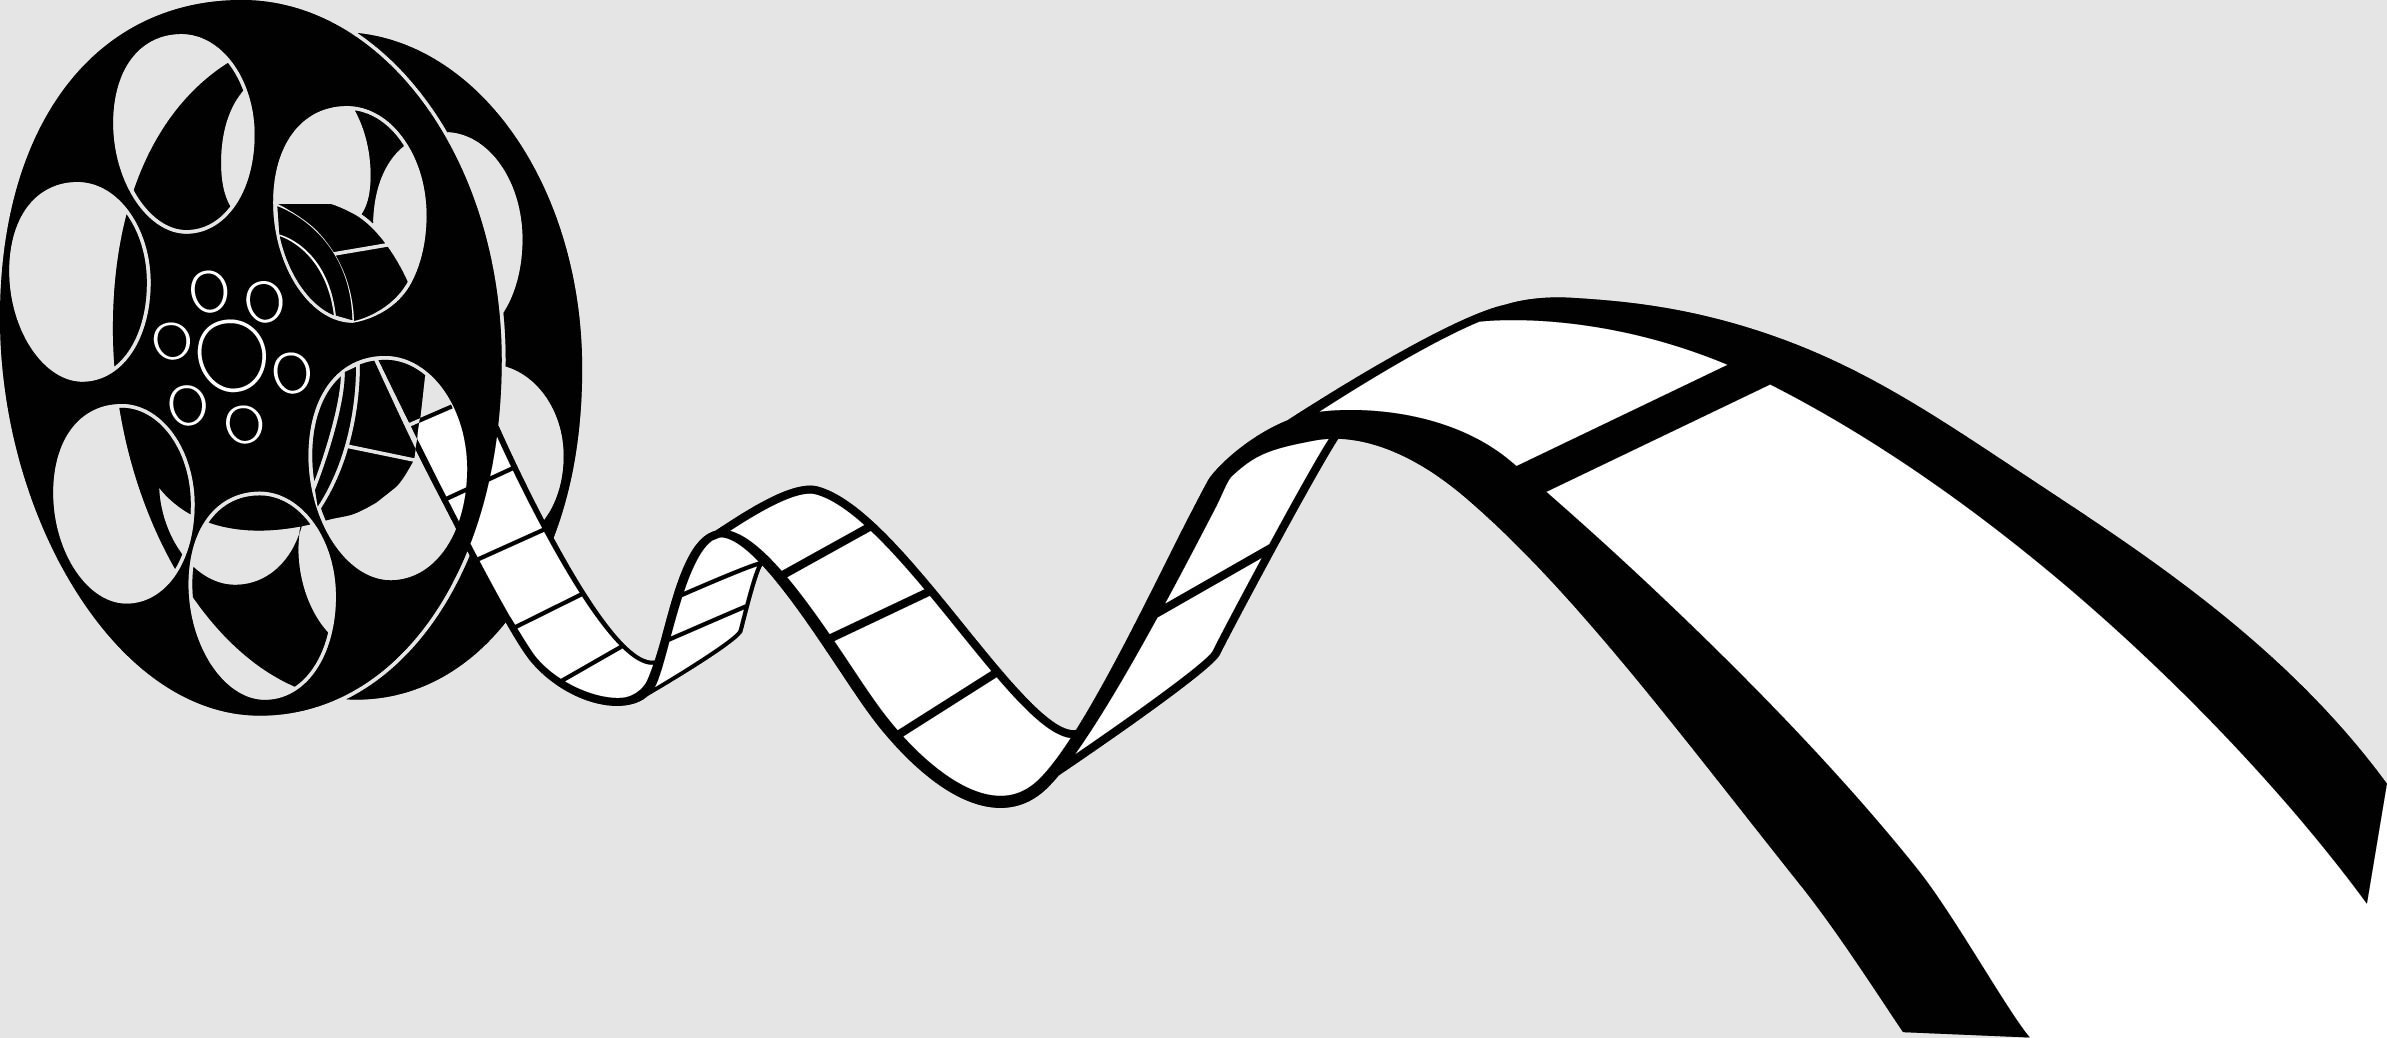
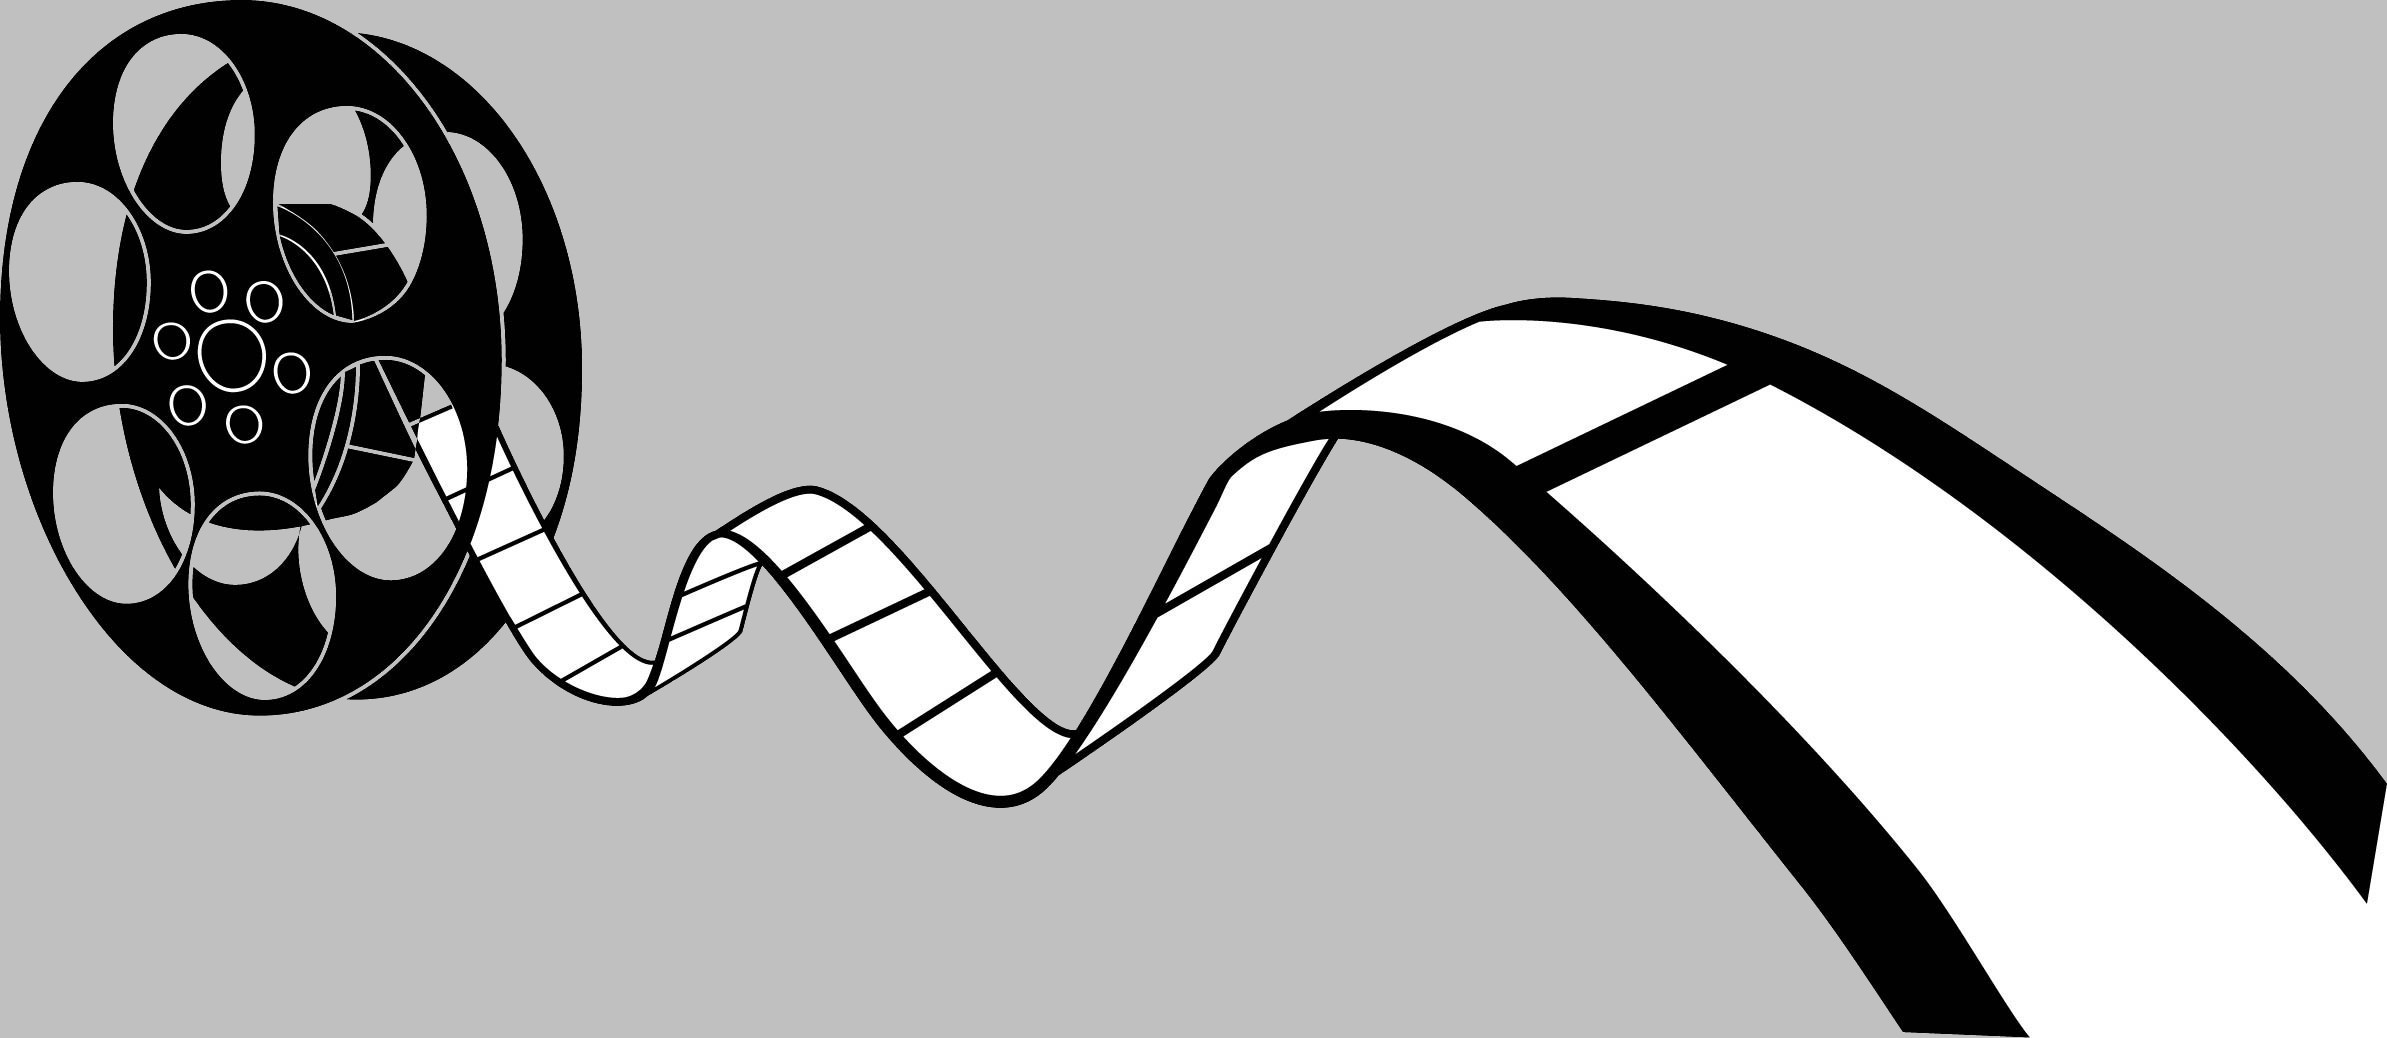
modif accueil

diff --git a/Pages/CSS/accueil.css b/Pages/CSS/accueil.css
@@ -4,7 +4,7 @@
   margin-right: auto;
 }
 
-header{
+html{
   background-color: RGB(192,192,192);
 }
 
